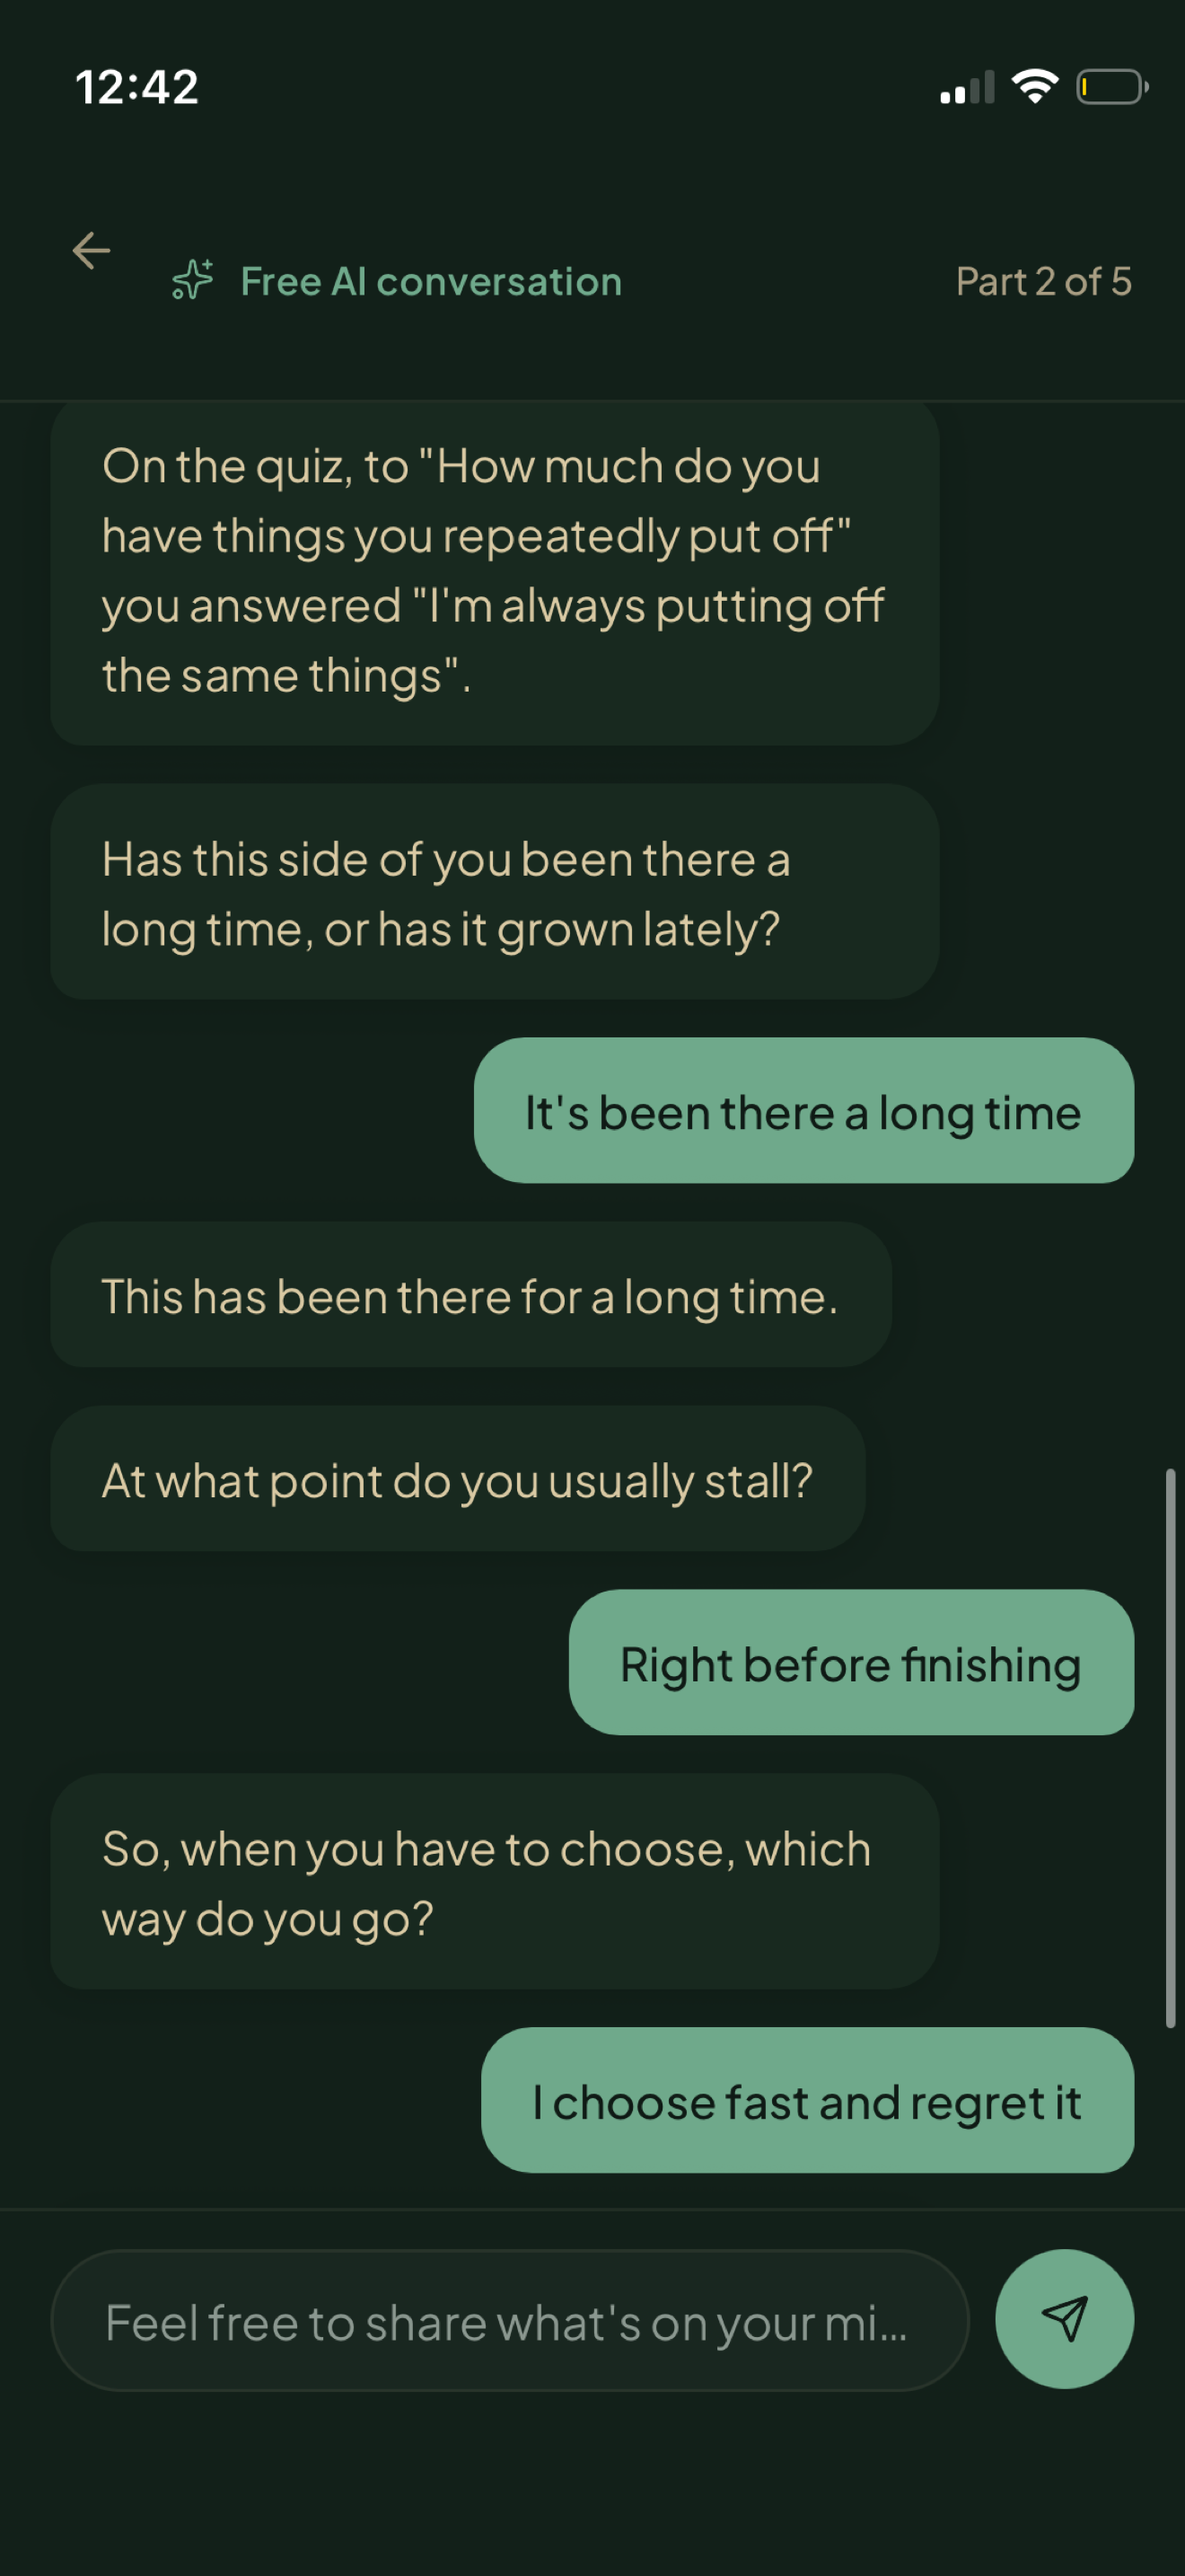
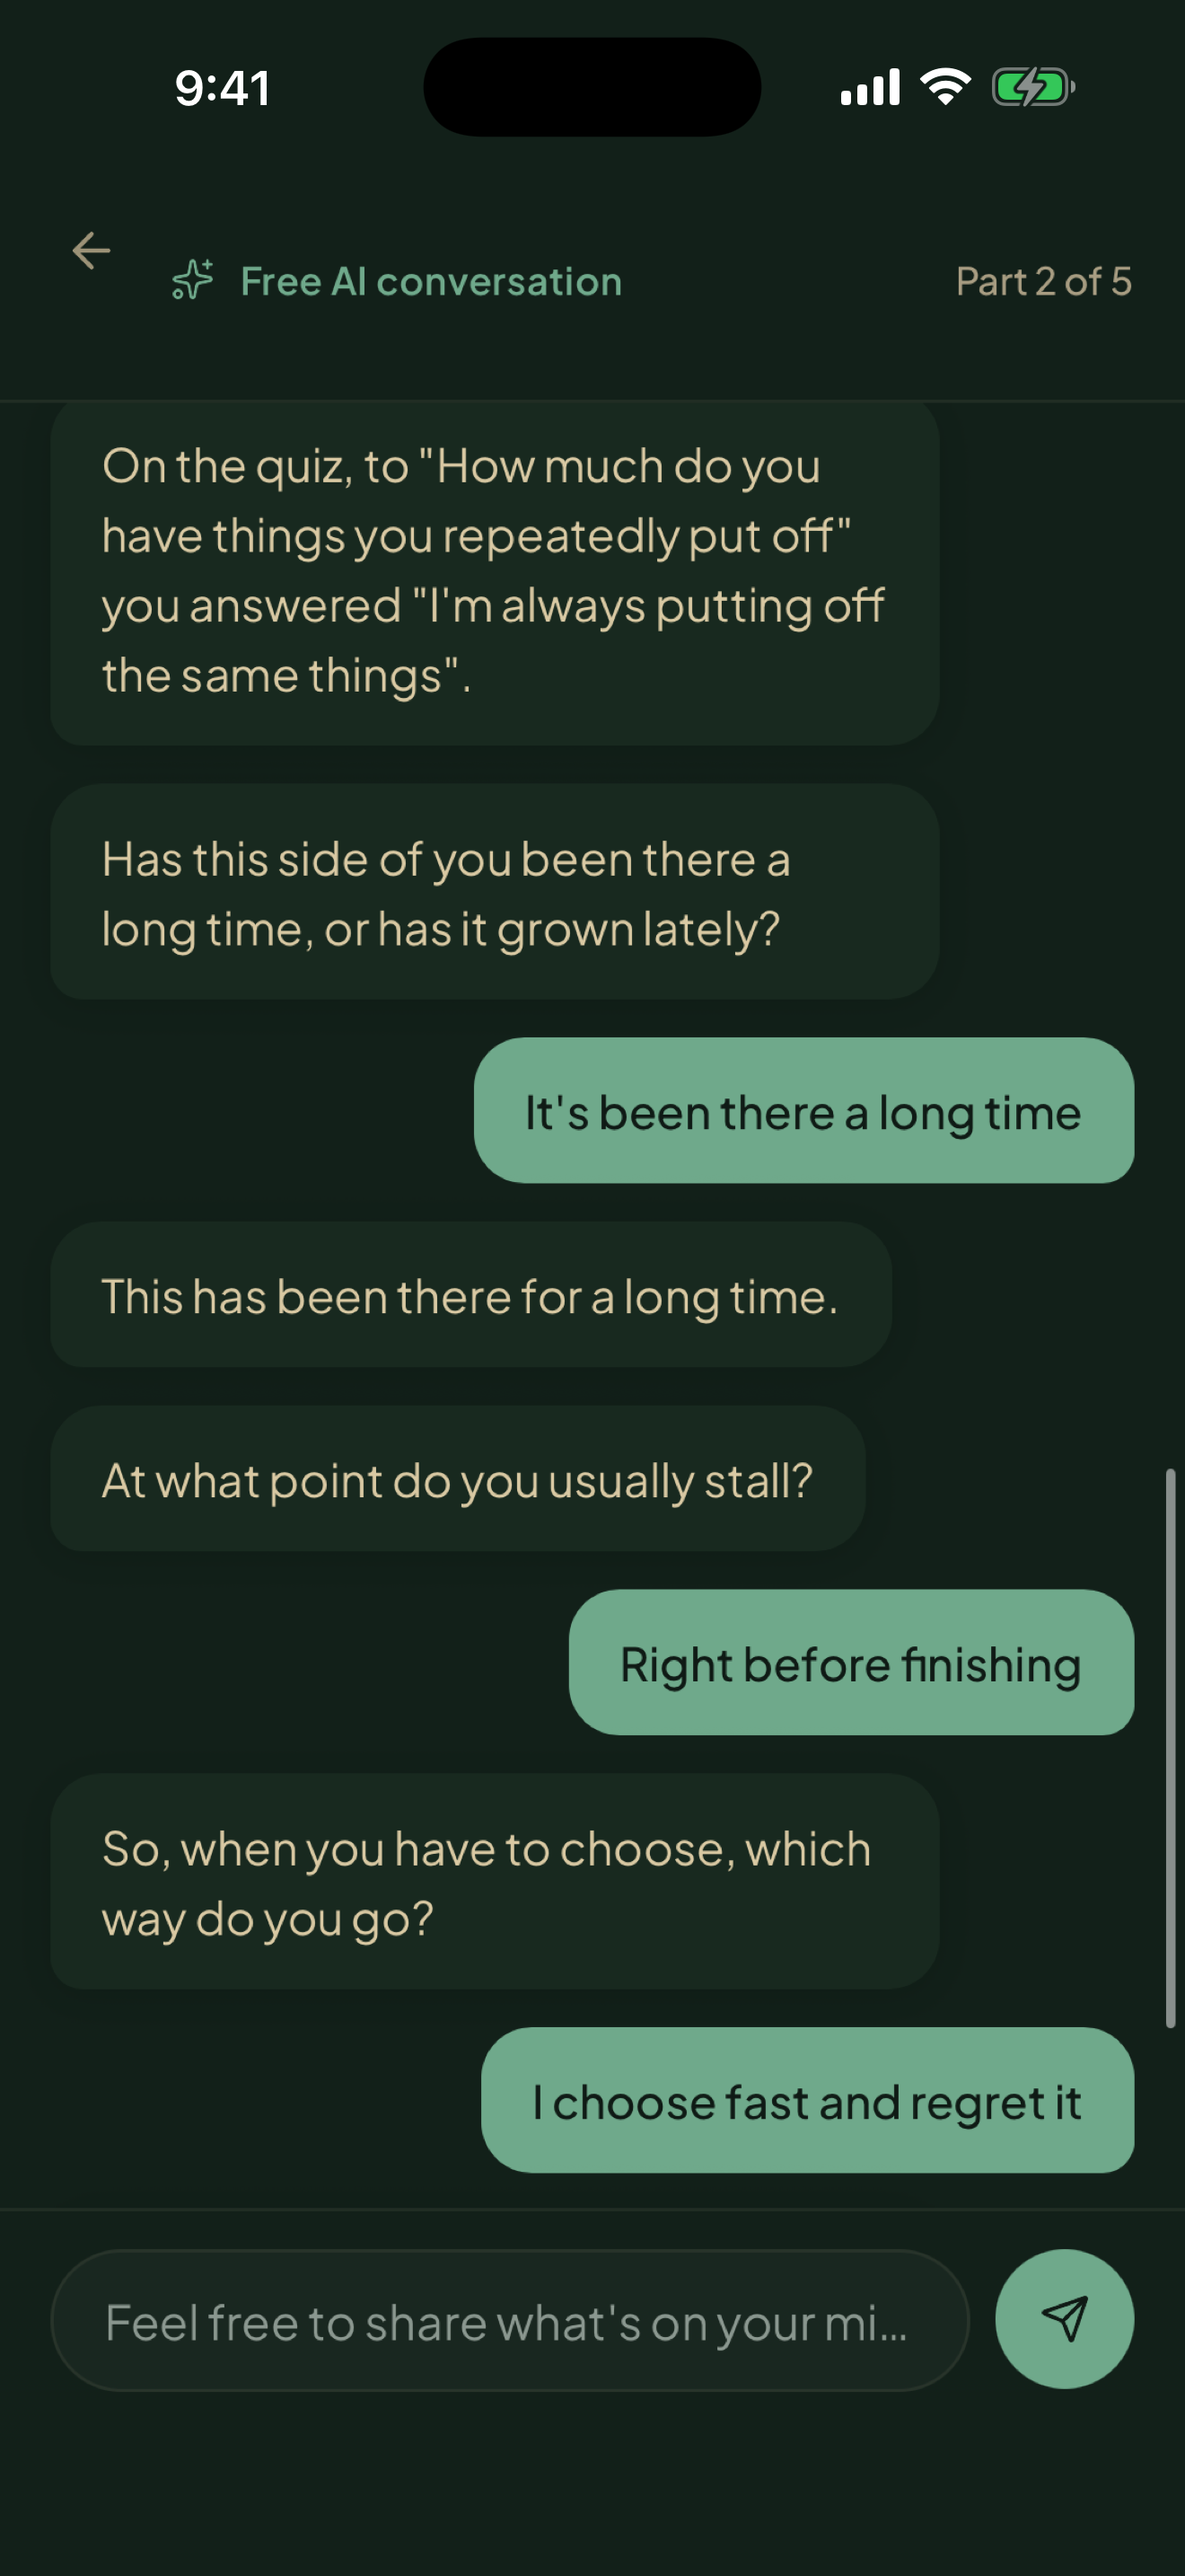
스토어 스크린샷 상단바 통일(대화·리포트를 9:41 상단바로), Notes에서 구독 경로 줄 제거

diff --git a/TODO.md b/TODO.md
@@ -43,7 +43,7 @@ SPEC: `SPEC.md`. 숏폼 TODO는 `TODO_2026-10-29_shortform.md`로 보관했다.
 - [ ] 8. (user check) 새 스크린샷 캡처
   - 단계(최신): 6번 캡션 순서는 검사 목록 → 대화 → 리포트 → 유형 → 새 홈(`marketing/aso-en.md` 표). 5번 화면 기준으로 iPhone 6.9"와 iPad 13"를 시뮬레이터 또는 실기기에서 캡처: 새 홈, 검사 목록, 대화 화면, 유형 화면, 리포트(구매 전 가능한 화면). 6번 캡션 순서대로 `mobile/store-assets/ios-screenshots/`에 저장. 구독·구매 화면과 "money"가 보이는 화면은 뺀다(기존 규칙).
   - QA: 파일이 해당 폴더에 있고 해상도가 App Store Connect 요구와 맞는다(업로드 시 확인).
-  - 진행(2026-10-29, Release 시뮬레이터 빌드 `expo run:ios --configuration Release`, 개발 도구 버튼 없음, 상태바 9:41): **완료** iPhone 6.9"(1320x2868) `home`·`tests`·`type`, iPad 13"(2064x2752) `home`·`tests`·`type` (`mobile/store-assets/ios-screenshots/`, `sips`로 해상도 확인). **추가(2026-10-29, 사용자가 TestFlight 빌드 9에서 찍은 `261029 스크린샷/` 28장 중 선별)**: 대화 `IMG_0121`(Part 2 of 5, 선택 칩·응답) → `chat-iphone69.png`, 리포트 `IMG_0128`(Follow-Through 분석 막대, 이름 없음) → `report-iphone69.png`. 원본이 1125x2436(5.8")이라 `sips -z 2868 1320`으로 6.9" 크기(1320x2868)에 맞춰 키웠다(가로세로 비율 차 0.3%, 약간 부드러움). 쓰지 않은 것: 오늘 개요(`IMG_0111`)는 "money/wallet" 문구, `IMG_0125` 리포트 표지는 사용자 이름("Aaron")이 보임. **남음** iPad 13"용 대화·리포트(기기 없으면 iPad는 기존 3장 `home`·`tests`·`type`만 올린다). 기존 `chart-iphone69.png`(1290x2796, 10-16)와 `qa-ipad13.png`(9-16)는 옛 화면이라 쓰지 않는다. 시뮬레이터에 테스트 프로필(Jordan, 1992-03-14, Seoul)이 들어 있다.
+  - 진행(2026-10-29, Release 시뮬레이터 빌드 `expo run:ios --configuration Release`, 개발 도구 버튼 없음, 상태바 9:41): **완료** iPhone 6.9"(1320x2868) `home`·`tests`·`type`, iPad 13"(2064x2752) `home`·`tests`·`type` (`mobile/store-assets/ios-screenshots/`, `sips`로 해상도 확인). **추가(2026-10-29, 사용자가 TestFlight 빌드 9에서 찍은 `261029 스크린샷/` 28장 중 선별)**: 대화 `IMG_0121`(Part 2 of 5, 선택 칩·응답) → `chat-iphone69.png`, 리포트 `IMG_0128`(Follow-Through 분석 막대, 이름 없음) → `report-iphone69.png`. 원본이 1125x2436(5.8")이라 `sips -z 2868 1320`으로 6.9" 크기(1320x2868)에 맞춰 키웠다(가로세로 비율 차 0.3%, 약간 부드러움). 상단바 통일: 시뮬레이터 캡처는 깨끗한 9:41·만충전 상단바, TestFlight 원본은 12:42·배터리 낮음이라, `chat`·`report`의 상단 200px를 `tests-iphone69.png`의 상단바(배경색 동일 18,32,25)로 덮어 맞췄다(원본은 `261029 스크린샷/`에 있음). 쓰지 않은 것: 오늘 개요(`IMG_0111`)는 "money/wallet" 문구, `IMG_0125` 리포트 표지는 사용자 이름("Aaron")이 보임. **남음** iPad 13"용 대화·리포트(기기 없으면 iPad는 기존 3장 `home`·`tests`·`type`만 올린다). 기존 `chart-iphone69.png`(1290x2796, 10-16)와 `qa-ipad13.png`(9-16)는 옛 화면이라 쓰지 않는다. 시뮬레이터에 테스트 프로필(Jordan, 1992-03-14, Seoul)이 들어 있다.
 
 - [ ] 9. (user check) 새 빌드 → 업로드 → 재제출
   - 순서(회신과 재제출은 한 번에):

diff --git a/APPEAL_2026-10-29_ios_4.3b.md b/APPEAL_2026-10-29_ios_4.3b.md
@@ -53,7 +53,7 @@ Main path (about 5-10 minutes):
 3. Continue into the guided conversation (choice-based; tap an option each turn).
 4. Finish the conversation to reach the personal report. The first 7 of 15 chapters are free; the rest open with a one-time in-app purchase (not a subscription).
 Other screens: "Today's rhythm" (daily card, below the path card), "Your pattern" (chart), Compatibility, Saju Q&A.
-Subscription screens: tap the "Today's rhythm" card → "Read today's overview" → scroll to the bottom ("What Pro opens"). Purchases use standard in-app purchase (sandbox).
+Purchases use standard in-app purchase (sandbox). Subscription and report purchase screens are in the in-app purchase review screenshots.
 Contact: {user email / phone for a call}
 ```
 
